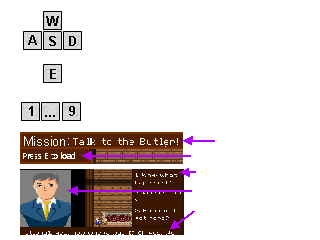
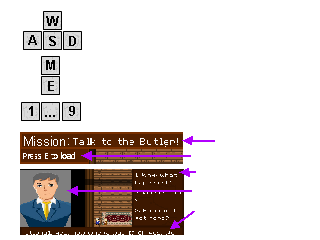
mute on instructions screen

Changed region(s): [[0.125, 0.2333, 0.2188, 0.4083]]

diff --git a/src/Faversham_hall/menu/instructions.c b/src/Faversham_hall/menu/instructions.c
@@ -108,8 +108,9 @@ void instructions_renderer() {
 	SSL_Font_Draw(90, 20, 0 ,SDL_FLIP_NONE, "Use the W A S D keys to", (SSL_Font *)asset_manager_getFont("ui_font"), SSL_Color_Create(0,0,0,255), game_window);
 	SSL_Font_Draw(90, 35, 0 ,SDL_FLIP_NONE, "move around the mansion", (SSL_Font *)asset_manager_getFont("ui_font"), SSL_Color_Create(0,0,0,255), game_window);
 
-	SSL_Font_Draw(90, 70, 0 ,SDL_FLIP_NONE, "Use the E key to interact", (SSL_Font *)asset_manager_getFont("ui_font"), SSL_Color_Create(0,0,0,255), game_window);
-	SSL_Font_Draw(90, 70, 0 ,SDL_FLIP_NONE, "Use the E key to interact", (SSL_Font *)asset_manager_getFont("ui_font"), SSL_Color_Create(0,0,0,255), game_window);
+	SSL_Font_Draw(90, 60, 0 ,SDL_FLIP_NONE, "Press M To Mute", (SSL_Font *)asset_manager_getFont("ui_font"), SSL_Color_Create(0,0,0,255), game_window);
+
+	SSL_Font_Draw(90, 80, 0 ,SDL_FLIP_NONE, "Use the E key to interact", (SSL_Font *)asset_manager_getFont("ui_font"), SSL_Color_Create(0,0,0,255), game_window);
 
 	SSL_Font_Draw(90, 100, 0 ,SDL_FLIP_NONE, "Use the 1 - 9 keys to make", (SSL_Font *)asset_manager_getFont("ui_font"), SSL_Color_Create(0,0,0,255), game_window);
 	SSL_Font_Draw(90, 115, 0 ,SDL_FLIP_NONE, "selections / choices", (SSL_Font *)asset_manager_getFont("ui_font"), SSL_Color_Create(0,0,0,255), game_window);
